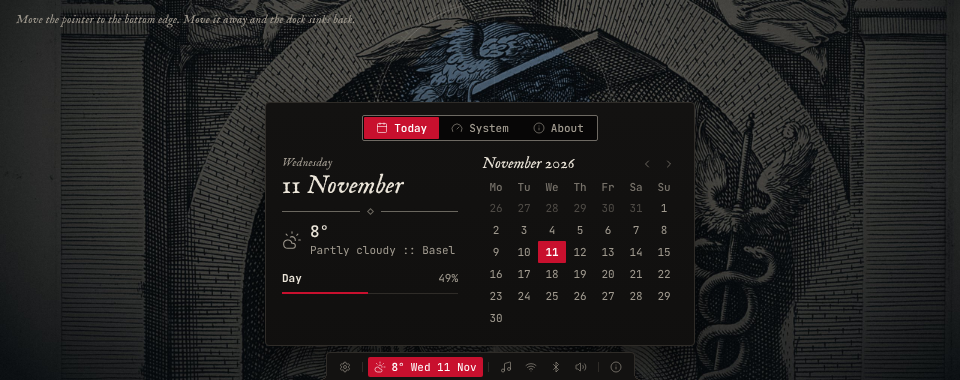
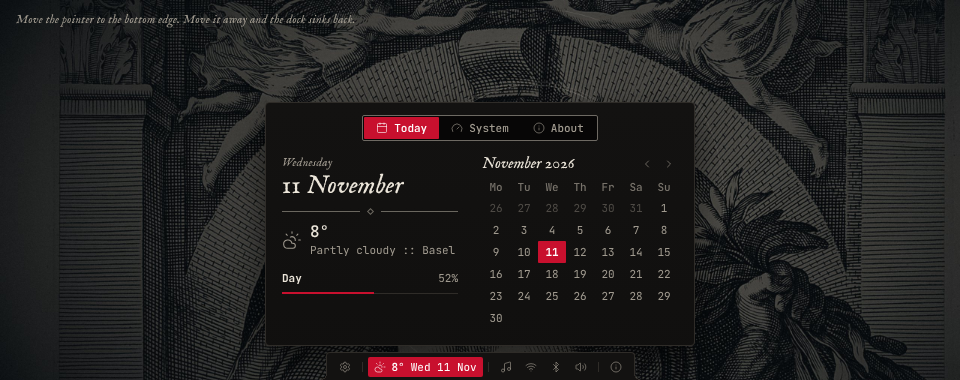
feat(theme)!: replace Minerva and Mercurius with Vulcanus and Neptunus
Apollo shows Goltzius's Sol in his niche (1592) again. Vulcanus takes Minerva's place and her olive aspect; Neptunus takes the blue aspect of Mercurius, for the water. Both are Goltzius after Polidoro, 1592.

BREAKING CHANGE: the theme ids minerva and mercurius are now vulcanus and neptunus

diff --git a/design-system/components/Pantheon/preview.html b/design-system/components/Pantheon/preview.html
@@ -24,7 +24,7 @@
 </div>
 <script>
 Kit.hydrate(document);
-var P = [["saturnus", "../../assets/Wallpapers/saturnus.jpg", "Saturnus", "Goltzius, 1592", "Saturnus with his sickle, lord of time, in his niche. Engraved by Hendrick Goltzius after Polidoro da Caravaggio, 1592", "#c8102e"], ["janus", "../../assets/Wallpapers/janus.jpg", "Janus", "Audenaerd, about 1700", "Janus with both faces opens the door of the year. Engraved by Robert van Audenaerd after Carlo Maratta", "#688f7f"], ["apollo", "../../assets/Wallpapers/apollo.jpg", "Apollo", "Goltzius, 1588", "Apollo with the rays of the sun around his head. Engraved by Hendrick Goltzius, Haarlem, 1588", "#b5925a"], ["mars", "../../assets/Wallpapers/mars.jpg", "Mars", "Quellinus, 1655", "Mars in armour, a dragon on his helmet. Hubert Quellinus after the statue by Artus Quellinus, Amsterdam, 1655", "#9f5836"], ["minerva", "../../assets/Wallpapers/minerva.jpg", "Minerva", "Saenredam, 1595", "Minerva with helmet, spear and owl. Engraved by Jan Saenredam after Hendrick Goltzius, about 1595", "#878a5d"], ["mercurius", "../../assets/Wallpapers/mercurius.jpg", "Mercurius", "Goltzius, 1592", "Mercurius in his niche. Engraved by Hendrick Goltzius after Polidoro da Caravaggio, 1592", "#546d85"], ["pluto", "../../assets/Wallpapers/pluto.jpg", "Pluto", "Goltzius, 1592", "Pluto in his niche. Engraved by Hendrick Goltzius after Polidoro da Caravaggio, 1592", "#746388"], ["bacchus", "../../assets/Wallpapers/bacchus.jpg", "Bacchus", "Goltzius, 1592", "Bacchus in his niche. Engraved by Hendrick Goltzius after Polidoro da Caravaggio, 1592", "#93535e"]];
+var P = [["saturnus", "../../assets/Wallpapers/saturnus.jpg", "Saturnus", "Goltzius, 1592", "Saturnus with his sickle, lord of time, in his niche. Engraved by Hendrick Goltzius after Polidoro da Caravaggio, 1592", "#c8102e"], ["janus", "../../assets/Wallpapers/janus.jpg", "Janus", "Audenaerd, about 1700", "Janus with both faces opens the door of the year. Engraved by Robert van Audenaerd after Carlo Maratta", "#688f7f"], ["apollo", "../../assets/Wallpapers/apollo.jpg", "Apollo", "Goltzius, 1592", "Apollo as Sol, the sun, with lyre and quiver in his niche. Engraved by Hendrick Goltzius after Polidoro da Caravaggio, 1592", "#b5925a"], ["mars", "../../assets/Wallpapers/mars.jpg", "Mars", "Quellinus, 1655", "Mars in armour, a dragon on his helmet. Hubert Quellinus after the statue by Artus Quellinus, Amsterdam, 1655", "#9f5836"], ["vulcanus", "../../assets/Wallpapers/vulcanus.jpg", "Vulcanus", "Goltzius, 1592", "Vulcanus, the smith of the gods, in his niche. Engraved by Hendrick Goltzius after Polidoro da Caravaggio, 1592", "#878a5d"], ["neptunus", "../../assets/Wallpapers/neptunus.jpg", "Neptunus", "Goltzius, 1592", "Neptunus with his crown and trident, in his niche. Engraved by Hendrick Goltzius after Polidoro da Caravaggio, 1592", "#546d85"], ["pluto", "../../assets/Wallpapers/pluto.jpg", "Pluto", "Goltzius, 1592", "Pluto in his niche. Engraved by Hendrick Goltzius after Polidoro da Caravaggio, 1592", "#746388"], ["bacchus", "../../assets/Wallpapers/bacchus.jpg", "Bacchus", "Goltzius, 1592", "Bacchus in his niche. Engraved by Hendrick Goltzius after Polidoro da Caravaggio, 1592", "#93535e"]];
 
 (function () {
   var scr = document.getElementById('scr'), track = document.getElementById('track'), car = document.getElementById('car'), rev = document.getElementById('rev'), base = document.getElementById('base');

diff --git a/design-system/components/Search/preview.html b/design-system/components/Search/preview.html
@@ -6,7 +6,7 @@
 <div data-wall-host data-theme="saturnus" style="position:relative;height:560px;overflow:hidden;background:var(--background)"><div class="k-wall" data-dim style="background-image:url(../../assets/Wallpapers/saturnus.jpg);background-position:center 30%"></div>
   <div class="k-grain"></div>
   <div style="position:absolute;inset:0;display:flex;justify-content:center;align-items:flex-start;padding-top:56px">
-    <div class="k-search k-surface" id="srch" data-query="theme" data-gods='{"saturnus": "../../assets/Wallpapers/saturnus.jpg", "janus": "../../assets/Wallpapers/janus.jpg", "apollo": "../../assets/Wallpapers/apollo.jpg", "mars": "../../assets/Wallpapers/mars.jpg", "minerva": "../../assets/Wallpapers/minerva.jpg", "mercurius": "../../assets/Wallpapers/mercurius.jpg", "pluto": "../../assets/Wallpapers/pluto.jpg", "bacchus": "../../assets/Wallpapers/bacchus.jpg"}' role="dialog" aria-label="Search">
+    <div class="k-search k-surface" id="srch" data-query="theme" data-gods='{"saturnus": "../../assets/Wallpapers/saturnus.jpg", "janus": "../../assets/Wallpapers/janus.jpg", "apollo": "../../assets/Wallpapers/apollo.jpg", "mars": "../../assets/Wallpapers/mars.jpg", "vulcanus": "../../assets/Wallpapers/vulcanus.jpg", "neptunus": "../../assets/Wallpapers/neptunus.jpg", "pluto": "../../assets/Wallpapers/pluto.jpg", "bacchus": "../../assets/Wallpapers/bacchus.jpg"}' role="dialog" aria-label="Search">
       <div class="k-search-head"><i class="k-icon" data-icon="search"></i><span class="k-crumb" id="crumb"></span><input aria-label="Search" autocomplete="off" spellcheck="false"><span class="k-kbd">Esc</span></div>
       <div class="k-search-filter"><div class="k-seg" id="filter" aria-label="Show"><button aria-selected="true">All</button><button>Apps</button><button>Actions</button><button>Settings</button><button>Commands</button></div><span class="k-plate">one field for everything</span></div>
       <ul class="k-hits" id="hits" role="listbox"></ul>
@@ -45,8 +45,8 @@ Kit.hydrate(document);
     {k: 'action', t: 'Janus', p: ['Style', 'Pantheon'], i: 'swatch-book', w: 'god aspect wallpaper patina green door', g: 'style'},
     {k: 'action', t: 'Apollo', p: ['Style', 'Pantheon'], i: 'swatch-book', w: 'god aspect wallpaper antique gold brass sun', g: 'style'},
     {k: 'action', t: 'Mars', p: ['Style', 'Pantheon'], i: 'swatch-book', w: 'god aspect wallpaper rust war', g: 'style'},
-    {k: 'action', t: 'Minerva', p: ['Style', 'Pantheon'], i: 'swatch-book', w: 'god aspect wallpaper olive owl moss', g: 'style'},
-    {k: 'action', t: 'Mercurius', p: ['Style', 'Pantheon'], i: 'swatch-book', w: 'god aspect wallpaper mercury slate blue ink', g: 'style'},
+    {k: 'action', t: 'Vulcanus', p: ['Style', 'Pantheon'], i: 'swatch-book', w: 'god aspect wallpaper olive forge smith fire', g: 'style'},
+    {k: 'action', t: 'Neptunus', p: ['Style', 'Pantheon'], i: 'swatch-book', w: 'god aspect wallpaper sea water blue trident', g: 'style'},
     {k: 'action', t: 'Pluto', p: ['Style', 'Pantheon'], i: 'swatch-book', w: 'god aspect wallpaper heather plum violet underworld', g: 'style'},
     {k: 'action', t: 'Bacchus', p: ['Style', 'Pantheon'], i: 'swatch-book', w: 'god aspect wallpaper claret wine', g: 'style'},
     {k: 'action', t: 'Switch to light', p: ['Style'], i: 'sun', w: 'variant light dark appearance', g: 'style'},

diff --git a/design-system/components/EdgeDock/preview.html b/design-system/components/EdgeDock/preview.html
@@ -3,7 +3,7 @@
 <html lang="en">
 <head><meta charset="utf-8"><title>EdgeDock — preview</title></head>
 <body>
-<div style="position:relative;height:380px;overflow:hidden"><div class="k-wall" style="background-image:url(../../assets/Wallpapers/mercurius.jpg);background-position:center 30%"></div>
+<div style="position:relative;height:380px;overflow:hidden"><div class="k-wall" style="background-image:url(../../assets/Wallpapers/neptunus.jpg);background-position:center 30%"></div>
   <div class="k-plate" style="position:absolute;left:16px;top:12px">Move the pointer to the bottom edge. Move it away and the dock sinks back.</div>
   <div class="k-dockbar">
 <div class="k-dock" id="dock">

diff --git a/design-system/tokens.css b/design-system/tokens.css
@@ -110,7 +110,7 @@
   --term-cursor: #9f5836;
   --term-selection: #372015;
 }
-[data-theme="minerva"] {
+[data-theme="vulcanus"] {
   --background: #0a0b06;
   --surface: #12130d;
   --surface-raised: #191a14;
@@ -127,7 +127,7 @@
   --term-cursor: #878a5d;
   --term-selection: #272819;
 }
-[data-theme="mercurius"] {
+[data-theme="neptunus"] {
   --background: #070b0e;
   --surface: #0f1317;
   --surface-raised: #151a1f;

diff --git a/tools/components.py b/tools/components.py
@@ -3,8 +3,8 @@ import json
 def I(n, cls=''):
     return '<i class="k-icon%s" data-icon="%s"></i>' % ((' ' + cls) if cls else '', n)
 
-BLOBS = {'0d757135df30d2bf6652f3c0a18483d5': 'saturnus.jpg', 'e6dec074eb9b7a654bf95f13d282f2c2': 'janus.jpg', '0cc6a7c9004fdc677a5ee5e9a15fa027': 'apollo.jpg', '3ce42143088aadf856d6c3ff5e29859e': 'mars.jpg', 'b4ec8e071ce499247b7f5574f8ea26c2': 'minerva.jpg', 'f23de46dea7fe1908c7bd773b98dd1ae': 'mercurius.jpg', '29b44e5ca900dac5a146387c59ae71a1': 'pluto.jpg', '0b1aff047346223424503ef8f1b62a91': 'bacchus.jpg'}
-SATURNUS, JANUS, APOLLO, MARS, MINERVA, MERCURIUS, PLUTO, BACCHUS = ['/_blob/' + k for k in BLOBS]
+BLOBS = {'0d757135df30d2bf6652f3c0a18483d5': 'saturnus.jpg', 'e6dec074eb9b7a654bf95f13d282f2c2': 'janus.jpg', 'b41733760ffae9de3f6f5d88682af092': 'apollo.jpg', '3ce42143088aadf856d6c3ff5e29859e': 'mars.jpg', '3b21996e74bfecb14fcb2f68061b8c3d': 'vulcanus.jpg', '479cdcb0b9c5173af68ab78ad369c814': 'neptunus.jpg', '29b44e5ca900dac5a146387c59ae71a1': 'pluto.jpg', '0b1aff047346223424503ef8f1b62a91': 'bacchus.jpg'}
+SATURNUS, JANUS, APOLLO, MARS, VULCANUS, NEPTUNUS, PLUTO, BACCHUS = ['/_blob/' + k for k in BLOBS]
 def WALL(url, extra='', pos='center'):
     return '<div class="k-wall"%s style="background-image:url(%s);background-position:%s"></div>' % (extra, url, pos)
 COMPONENTS = []
@@ -415,8 +415,8 @@ SEARCH_JS = r'''
     {k: 'action', t: 'Janus', p: ['Style', 'Pantheon'], i: 'swatch-book', w: 'god aspect wallpaper patina green door', g: 'style'},
     {k: 'action', t: 'Apollo', p: ['Style', 'Pantheon'], i: 'swatch-book', w: 'god aspect wallpaper antique gold brass sun', g: 'style'},
     {k: 'action', t: 'Mars', p: ['Style', 'Pantheon'], i: 'swatch-book', w: 'god aspect wallpaper rust war', g: 'style'},
-    {k: 'action', t: 'Minerva', p: ['Style', 'Pantheon'], i: 'swatch-book', w: 'god aspect wallpaper olive owl moss', g: 'style'},
-    {k: 'action', t: 'Mercurius', p: ['Style', 'Pantheon'], i: 'swatch-book', w: 'god aspect wallpaper mercury slate blue ink', g: 'style'},
+    {k: 'action', t: 'Vulcanus', p: ['Style', 'Pantheon'], i: 'swatch-book', w: 'god aspect wallpaper olive forge smith fire', g: 'style'},
+    {k: 'action', t: 'Neptunus', p: ['Style', 'Pantheon'], i: 'swatch-book', w: 'god aspect wallpaper sea water blue trident', g: 'style'},
     {k: 'action', t: 'Pluto', p: ['Style', 'Pantheon'], i: 'swatch-book', w: 'god aspect wallpaper heather plum violet underworld', g: 'style'},
     {k: 'action', t: 'Bacchus', p: ['Style', 'Pantheon'], i: 'swatch-book', w: 'god aspect wallpaper claret wine', g: 'style'},
     {k: 'action', t: 'Switch to light', p: ['Style'], i: 'sun', w: 'variant light dark appearance', g: 'style'},
@@ -565,7 +565,7 @@ comp('Search', 'Shell', 560, r'''
 <div data-wall-host data-theme="saturnus" style="position:relative;height:560px;overflow:hidden;background:var(--background)">''' + WALL(SATURNUS, ' data-dim', pos='center 30%') + r'''
   <div class="k-grain"></div>
   <div style="position:absolute;inset:0;display:flex;justify-content:center;align-items:flex-start;padding-top:56px">
-    <div class="k-search k-surface" id="srch" data-query="theme" data-gods=''' + "'" + json.dumps(dict(zip(['saturnus', 'janus', 'apollo', 'mars', 'minerva', 'mercurius', 'pluto', 'bacchus'], [SATURNUS, JANUS, APOLLO, MARS, MINERVA, MERCURIUS, PLUTO, BACCHUS]))) + "'" + r''' role="dialog" aria-label="Search">
+    <div class="k-search k-surface" id="srch" data-query="theme" data-gods=''' + "'" + json.dumps(dict(zip(['saturnus', 'janus', 'apollo', 'mars', 'vulcanus', 'neptunus', 'pluto', 'bacchus'], [SATURNUS, JANUS, APOLLO, MARS, VULCANUS, NEPTUNUS, PLUTO, BACCHUS]))) + "'" + r''' role="dialog" aria-label="Search">
       <div class="k-search-head">''' + I('search') + r'''<span class="k-crumb" id="crumb"></span><input aria-label="Search" autocomplete="off" spellcheck="false"><span class="k-kbd">Esc</span></div>
       <div class="k-search-filter"><div class="k-seg" id="filter" aria-label="Show"><button aria-selected="true">All</button><button>Apps</button><button>Actions</button><button>Settings</button><button>Commands</button></div><span class="k-plate">one field for everything</span></div>
       <ul class="k-hits" id="hits" role="listbox"></ul>
@@ -707,7 +707,7 @@ DOCK_JS = r'''
 })();
 '''
 comp('EdgeDock', 'Shell', 380, r'''
-<div style="position:relative;height:380px;overflow:hidden">''' + WALL(MERCURIUS, pos='center 30%') + r'''
+<div style="position:relative;height:380px;overflow:hidden">''' + WALL(NEPTUNUS, pos='center 30%') + r'''
   <div class="k-plate" style="position:absolute;left:16px;top:12px">Move the pointer to the bottom edge. Move it away and the dock sinks back.</div>
   <div class="k-dockbar">''' + DOCK + r'''</div>
 </div>''', r'''
@@ -993,14 +993,14 @@ import pantheon as _pan
 _CAP = {
     'saturnus': ('Goltzius, 1592', 'Saturnus with his sickle, lord of time, in his niche. Engraved by Hendrick Goltzius after Polidoro da Caravaggio, 1592'),
     'janus': ('Audenaerd, about 1700', 'Janus with both faces opens the door of the year. Engraved by Robert van Audenaerd after Carlo Maratta'),
-    'apollo': ('Goltzius, 1588', 'Apollo with the rays of the sun around his head. Engraved by Hendrick Goltzius, Haarlem, 1588'),
+    'apollo': ('Goltzius, 1592', 'Apollo as Sol, the sun, with lyre and quiver in his niche. Engraved by Hendrick Goltzius after Polidoro da Caravaggio, 1592'),
     'mars': ('Quellinus, 1655', 'Mars in armour, a dragon on his helmet. Hubert Quellinus after the statue by Artus Quellinus, Amsterdam, 1655'),
-    'minerva': ('Saenredam, 1595', 'Minerva with helmet, spear and owl. Engraved by Jan Saenredam after Hendrick Goltzius, about 1595'),
-    'mercurius': ('Goltzius, 1592', 'Mercurius in his niche. Engraved by Hendrick Goltzius after Polidoro da Caravaggio, 1592'),
+    'vulcanus': ('Goltzius, 1592', 'Vulcanus, the smith of the gods, in his niche. Engraved by Hendrick Goltzius after Polidoro da Caravaggio, 1592'),
+    'neptunus': ('Goltzius, 1592', 'Neptunus with his crown and trident, in his niche. Engraved by Hendrick Goltzius after Polidoro da Caravaggio, 1592'),
     'pluto': ('Goltzius, 1592', 'Pluto in his niche. Engraved by Hendrick Goltzius after Polidoro da Caravaggio, 1592'),
     'bacchus': ('Goltzius, 1592', 'Bacchus in his niche. Engraved by Hendrick Goltzius after Polidoro da Caravaggio, 1592'),
 }
-_URL = dict(zip([g[0] for g in _pan.GODS], [SATURNUS, JANUS, APOLLO, MARS, MINERVA, MERCURIUS, PLUTO, BACCHUS]))
+_URL = dict(zip([g[0] for g in _pan.GODS], [SATURNUS, JANUS, APOLLO, MARS, VULCANUS, NEPTUNUS, PLUTO, BACCHUS]))
 PLATES = [(g[0], _URL[g[0]], g[1], _CAP[g[0]][0], _CAP[g[0]][1], _pan.aspect(g[0])['accent']) for g in _pan.GODS]
 WP_JS = 'var P = ' + json.dumps(PLATES) + ';\n' + r"""
 (function () {
@@ -1045,9 +1045,9 @@ screen('Pantheon', 720, r'''
 </div>''', r'''
 The pantheon (Style › Wallpaper, Super Ctrl Space). The default theme has no single wallpaper but eight Roman gods. Each god is a plate and an aspect: the plate is the wallpaper, the aspect recolours the system to match it. Calling a god sets both at once.
 
-- The gods, in order: Saturnus (Strix red, the default), Janus (patina), Apollo (antique gold), Mars (rust), Minerva (olive leaf), Mercurius (slate blue), Pluto (heather), Bacchus (claret). All but Saturnus are muted, as in dark academia: deep, warm, never bright. Janus keeps the doors and so the lock screen; in Ovid it is his gift that keeps the striges out of the house.
+- The gods, in order: Saturnus (Strix red, the default), Janus (patina), Apollo (antique gold), Mars (rust), Vulcanus (olive), Neptunus (slate blue), Pluto (heather), Bacchus (claret). All but Saturnus are muted, as in dark academia: deep, warm, never bright. Janus keeps the doors and so the lock screen; in Ovid it is his gift that keeps the striges out of the house.
 - An aspect changes only the accent and its family (`accent`, `accent-hover`, `accent-pressed`, `accent-soft`, `accent-text`, `on-accent`, `focus`, terminal cursor and selection) and tints the grounds (`background`, the surfaces, `border`) a little toward the god's hue. Text, `line`, the status colours and syntax stay the same in every aspect, so readability never depends on the god.
-- In code the aspect is a theme: `data-theme="mars"` on the root, or on any element to scope it. Light accents (Janus, Apollo and Minerva) put dark text on their fills, the others white; `on-accent` says which.
+- In code the aspect is a theme: `data-theme="mars"` on the root, or on any element to scope it. Light accents (Janus, Apollo and Vulcanus) put dark text on their fills, the others white; `on-accent` says which.
 - Every plate is an engraving printed in two inks of its aspect: dark ink on dim cream, and inside the disc the paper takes the god's colour.
 - Browse with the arrow keys, the wheel or a click on a neighbour; the small dot under the name is the god's colour. Enter or a click on the middle card spreads the plate as a growing circle from the click point over `dur-reveal`; then the aspect switches and the picker fades.
 - Other themes bring their own wallpapers and keep one accent.

diff --git a/tools/docs.py b/tools/docs.py
@@ -68,7 +68,7 @@ __GODS_TABLE__
 ## Ornament
 
 - `.k-rule` is a hair line with a small open lozenge in the middle, as between the parts of an old title page. Use it once in a view to part the mood from the matter: under the wordmark, between the date and the weather, above the update card.
-- `.k-plate` is a plate caption: one line of serif italic naming a picture, in the form "Mercurius in his niche. Engraved by Hendrick Goltzius after Polidoro da Caravaggio, 1592". Every engraving shown full screen carries one.
+- `.k-plate` is a plate caption: one line of serif italic naming a picture, in the form "Pluto in his niche. Engraved by Hendrick Goltzius after Polidoro da Caravaggio, 1592". Every engraving shown full screen carries one.
 - InfoBlock's double-line brackets are the only frame. Use them for system facts, once per view.
 - `.k-grain` lays a fine grain over a full-screen picture. Use it on wallpapers only, never on surfaces.
 - That is the whole stock of ornament. No flourishes, corner pieces, drop caps or borders made of pattern.
@@ -85,7 +85,7 @@ __GODS_TABLE__
 ## Wallpaper and imagery
 
 - Wallpapers are engravings of Roman gods, printed in two inks of the god's aspect: dim cream for the paper and the aspect's `background` for the ink. Inside one flat disc behind the head the paper takes the god's `accent`, dulled a little as ink on old paper, so the head is drawn in dark lines on the colour. Around the disc sit a few hair lines: two circles, a graduated ring and a meridian. The picture is darkened hard toward the edges so it reads as texture, not as a poster.
-- Eight plates are in the Wallpapers asset group, one per god: Saturnus (the default desktop), Janus (the lock screen: he keeps the doors), Apollo, Mars, Minerva, Mercurius, Pluto and Bacchus. They come from the open-access collections of the Art Institute of Chicago (CC0) and the Rijksmuseum (public domain). The group's README gives title, engraver, date, source and licence for each.
+- Eight plates are in the Wallpapers asset group, one per god: Saturnus (the default desktop), Janus (the lock screen: he keeps the doors), Apollo, Mars, Vulcanus, Neptunus, Pluto and Bacchus. They come from the open-access collections of the Art Institute of Chicago (CC0) and the Rijksmuseum (public domain). The group's README gives title, engraver, date, source and licence for each.
 - Crop to the upper body: head, shoulders, arms. Keep the top 110px and the bottom 90px of a wallpaper dark so the bar and the dock stay readable.
 - Under the lock screen, the theme picker and the pantheon the wallpaper is dimmed to `dim-wallpaper` and softened slightly.
 - Add further gods only as engravings or etchings in the public domain from a collection that says so, with an aspect of their own whose accent is far enough in hue from the others, treated the same way, with source and licence written into the README. No photographs, no paintings in colour, no characters, no artwork of other projects.

diff --git a/tools/wallpapers.py b/tools/wallpapers.py
@@ -32,14 +32,14 @@ PLATES = {
                  'Hendrick Goltzius after Polidoro da Caravaggio, Saturnus, from Eight Pagan Gods, 1592. Art Institute of Chicago 2023.968, CC0'),
     'janus': (('rijks', 'jGPOs', 6098), (0.36, 0.23, 0.74), (1110, 450, 300),
               'Janus opens the door of the year, engraved by Robert van Audenaerd after Carlo Maratta, 1685 to 1723. Rijksmuseum RP-P-OB-67.432, public domain'),
-    'apollo': (('aic', '3e8aab9a-660c-7742-733d-5a36fc648418'), (0.10, 0.08, 0.90), (1360, 346, 280),
-               'Hendrick Goltzius, Apollo, 1588. Art Institute of Chicago 2012.409, CC0'),
+    'apollo': (('aic', 'f9b4ca78-b118-0595-7e4d-ea082b618d9d'), (0.10, 0.12, 0.90), (1297, 585, 250),
+               'Hendrick Goltzius after Polidoro da Caravaggio, Sol, from Eight Pagan Gods, 1592. Art Institute of Chicago 2023.972, CC0'),
     'mars': (('rijks', 'yzhwS', 3064), (0.22, 0.17, 0.84), (1060, 560, 260),
              'Hubert Quellinus after Artus Quellinus, Mars in the west gallery of the Amsterdam town hall, 1655. Rijksmuseum RP-P-AO-22-1Q-1, public domain'),
-    'minerva': (('aic', '27c735cb-2d28-bf3f-d67b-3bea6278957c'), (0.0, 0.10, 1.0), (1580, 700, 300),
-                'Jan Saenredam after Hendrick Goltzius, Pallas Athena, from Three Goddesses, about 1595. Art Institute of Chicago 2023.161, CC0'),
-    'mercurius': (('aic', '907c2a05-541d-ddee-7d23-75ee68dfe50e'), (0.15, 0.15, 0.85), (1318, 447, 260),
-                  'Hendrick Goltzius after Polidoro da Caravaggio, Mercurius, from Eight Pagan Gods, 1592. Art Institute of Chicago 2023.975, CC0'),
+    'vulcanus': (('aic', '2e3e8684-cef2-9f95-cbd1-707884e5261d'), (0.15, 0.15, 0.85), (1320, 560, 250),
+                 'Hendrick Goltzius after Polidoro da Caravaggio, Vulcanus, from Eight Pagan Gods, 1592. Art Institute of Chicago 2023.971, CC0'),
+    'neptunus': (('aic', '03acd0e7-0cf5-7fc7-60c7-6fb1097a143f'), (0.15, 0.15, 0.85), (1420, 660, 250),
+                 'Hendrick Goltzius after Polidoro da Caravaggio, Neptunus, from Eight Pagan Gods, 1592. Art Institute of Chicago 2023.969, CC0'),
     'pluto': (('aic', '875c8e28-faf6-4991-b34a-e9e991476d81'), (0.15, 0.15, 0.85), (1335, 475, 260),
               'Hendrick Goltzius after Polidoro da Caravaggio, Pluto, from Eight Pagan Gods, 1592. Art Institute of Chicago 2023.970, CC0'),
     'bacchus': (('aic', 'b87ec199-aa10-e7a7-2301-74c18b845d5d'), (0.15, 0.15, 0.85), (1330, 490, 260),

diff --git a/tools/pantheon.py b/tools/pantheon.py
@@ -23,8 +23,8 @@ GODS_SPEC = [
     ('janus',     'Janus',     (0.59, 0.048, 168),      'Patina, the green of old bronze doors and keys.'),
     ('apollo',    'Apollo',    (0.68, 0.085, 78),       'Antique gold, worn brass.'),
     ('mars',      'Mars',      (0.57, 0.105, 45),       'Rust, iron and burnt sienna.'),
-    ('minerva',   'Minerva',   (0.60, 0.065, 112),      'Olive leaf, moss on stone.'),
-    ('mercurius', 'Mercurius', (0.57, 0.048, 248),      'Slate and ink blue.'),
+    ('vulcanus',  'Vulcanus',  (0.60, 0.065, 112),      'Olive, the patina on old bronze from the forge.'),
+    ('neptunus',  'Neptunus',  (0.57, 0.048, 248),      'Deep water, slate and ink blue.'),
     ('pluto',     'Pluto',     (0.55, 0.060, 305),      'Heather, faded plum.'),
     ('bacchus',   'Bacchus',   (0.52, 0.085, 10),      'Claret, old wine.'),
 ]

diff --git a/design-system/README.md b/design-system/README.md
@@ -51,15 +51,15 @@ The default theme has eight aspects, one for each god of its wallpapers. Choosin
 | Janus | `#688f7f` | `#070c09` | Patina, the green of old bronze doors and keys. |
 | Apollo | `#b5925a` | `#0d0a06` | Antique gold, worn brass. |
 | Mars | `#9f5836` | `#0e0907` | Rust, iron and burnt sienna. |
-| Minerva | `#878a5d` | `#0a0b06` | Olive leaf, moss on stone. |
-| Mercurius | `#546d85` | `#070b0e` | Slate and ink blue. |
+| Vulcanus | `#878a5d` | `#0a0b06` | Olive, the patina on old bronze from the forge. |
+| Neptunus | `#546d85` | `#070b0e` | Deep water, slate and ink blue. |
 | Pluto | `#746388` | `#0b090e` | Heather, faded plum. |
 | Bacchus | `#93535e` | `#0e0909` | Claret, old wine. |
 
 - An aspect sets only `background`, `surface`, `surface-raised`, `surface-sunken`, `border`, the accent family (`accent`, `accent-hover`, `accent-pressed`, `accent-soft`, `accent-text`, `on-accent`, `focus`) and `term-background`, `term-cursor`, `term-selection`. Grounds keep the default's lightness and take only a faint tint of the god's hue. Everything else is shared, so text, status and syntax read the same under every god.
 - The colours follow dark academia: deep, muted and warm, like leather, brass, ink and old bindings. Every accent but the default's has an OKLCH chroma between 0.05 and 0.11, so none is pure or bright; only the Strix red stays at full strength, as the colour of the brand.
 - The accent of each god is chosen by hand; the rest is derived in OKLCH by `tools/pantheon.py`, which also checks every pair: text 4.5:1 on all grounds, `accent-text` 4.5:1 on grounds and `accent-soft`, `on-accent` 4.5:1 on all three fills, `focus` and the accent fill 3:1.
-- Light accents (Janus, Apollo and Minerva) carry near-black text; dark ones (Saturnus, Mars, Mercurius, Pluto and Bacchus) carry white. Use `on-accent`, never a fixed white.
+- Light accents (Janus, Apollo and Vulcanus) carry near-black text; dark ones (Saturnus, Mars, Neptunus, Pluto and Bacchus) carry white. Use `on-accent`, never a fixed white.
 - `error` stays red under every god. Under Saturnus the error and the accent are both red; that is why status is always a word first.
 
 ## Type
@@ -77,7 +77,7 @@ The default theme has eight aspects, one for each god of its wallpapers. Choosin
 ## Ornament
 
 - `.k-rule` is a hair line with a small open lozenge in the middle, as between the parts of an old title page. Use it once in a view to part the mood from the matter: under the wordmark, between the date and the weather, above the update card.
-- `.k-plate` is a plate caption: one line of serif italic naming a picture, in the form "Mercurius in his niche. Engraved by Hendrick Goltzius after Polidoro da Caravaggio, 1592". Every engraving shown full screen carries one.
+- `.k-plate` is a plate caption: one line of serif italic naming a picture, in the form "Pluto in his niche. Engraved by Hendrick Goltzius after Polidoro da Caravaggio, 1592". Every engraving shown full screen carries one.
 - InfoBlock's double-line brackets are the only frame. Use them for system facts, once per view.
 - `.k-grain` lays a fine grain over a full-screen picture. Use it on wallpapers only, never on surfaces.
 - That is the whole stock of ornament. No flourishes, corner pieces, drop caps or borders made of pattern.
@@ -94,7 +94,7 @@ The default theme has eight aspects, one for each god of its wallpapers. Choosin
 ## Wallpaper and imagery
 
 - Wallpapers are engravings of Roman gods, printed in two inks of the god's aspect: dim cream for the paper and the aspect's `background` for the ink. Inside one flat disc behind the head the paper takes the god's `accent`, dulled a little as ink on old paper, so the head is drawn in dark lines on the colour. Around the disc sit a few hair lines: two circles, a graduated ring and a meridian. The picture is darkened hard toward the edges so it reads as texture, not as a poster.
-- Eight plates are in the Wallpapers asset group, one per god: Saturnus (the default desktop), Janus (the lock screen: he keeps the doors), Apollo, Mars, Minerva, Mercurius, Pluto and Bacchus. They come from the open-access collections of the Art Institute of Chicago (CC0) and the Rijksmuseum (public domain). The group's README gives title, engraver, date, source and licence for each.
+- Eight plates are in the Wallpapers asset group, one per god: Saturnus (the default desktop), Janus (the lock screen: he keeps the doors), Apollo, Mars, Vulcanus, Neptunus, Pluto and Bacchus. They come from the open-access collections of the Art Institute of Chicago (CC0) and the Rijksmuseum (public domain). The group's README gives title, engraver, date, source and licence for each.
 - Crop to the upper body: head, shoulders, arms. Keep the top 110px and the bottom 90px of a wallpaper dark so the bar and the dock stay readable.
 - Under the lock screen, the theme picker and the pantheon the wallpaper is dimmed to `dim-wallpaper` and softened slightly.
 - Add further gods only as engravings or etchings in the public domain from a collection that says so, with an aspect of their own whose accent is far enough in hue from the others, treated the same way, with source and licence written into the README. No photographs, no paintings in colour, no characters, no artwork of other projects.

diff --git a/design-system/assets/Wallpapers/README.md b/design-system/assets/Wallpapers/README.md
@@ -4,10 +4,10 @@ The pantheon of the default theme: eight Roman gods, each an engraving printed i
 
 - `saturnus.jpg` — Saturnus: accent `#c8102e` on `#0b0a09`. The default desktop. Hendrick Goltzius after Polidoro da Caravaggio, Saturnus, from Eight Pagan Gods, 1592. Art Institute of Chicago 2023.968, CC0.
 - `janus.jpg` — Janus: accent `#688f7f` on `#070c09`. The lock screen. Janus opens the door of the year, engraved by Robert van Audenaerd after Carlo Maratta, 1685 to 1723. Rijksmuseum RP-P-OB-67.432, public domain.
-- `apollo.jpg` — Apollo: accent `#b5925a` on `#0d0a06`. Hendrick Goltzius, Apollo, 1588. Art Institute of Chicago 2012.409, CC0.
+- `apollo.jpg` — Apollo: accent `#b5925a` on `#0d0a06`. Hendrick Goltzius after Polidoro da Caravaggio, Sol, from Eight Pagan Gods, 1592. Art Institute of Chicago 2023.972, CC0.
 - `mars.jpg` — Mars: accent `#9f5836` on `#0e0907`. Hubert Quellinus after Artus Quellinus, Mars in the west gallery of the Amsterdam town hall, 1655. Rijksmuseum RP-P-AO-22-1Q-1, public domain.
-- `minerva.jpg` — Minerva: accent `#878a5d` on `#0a0b06`. Jan Saenredam after Hendrick Goltzius, Pallas Athena, from Three Goddesses, about 1595. Art Institute of Chicago 2023.161, CC0.
-- `mercurius.jpg` — Mercurius: accent `#546d85` on `#070b0e`. Hendrick Goltzius after Polidoro da Caravaggio, Mercurius, from Eight Pagan Gods, 1592. Art Institute of Chicago 2023.975, CC0.
+- `vulcanus.jpg` — Vulcanus: accent `#878a5d` on `#0a0b06`. Hendrick Goltzius after Polidoro da Caravaggio, Vulcanus, from Eight Pagan Gods, 1592. Art Institute of Chicago 2023.971, CC0.
+- `neptunus.jpg` — Neptunus: accent `#546d85` on `#070b0e`. Hendrick Goltzius after Polidoro da Caravaggio, Neptunus, from Eight Pagan Gods, 1592. Art Institute of Chicago 2023.969, CC0.
 - `pluto.jpg` — Pluto: accent `#746388` on `#0b090e`. Hendrick Goltzius after Polidoro da Caravaggio, Pluto, from Eight Pagan Gods, 1592. Art Institute of Chicago 2023.970, CC0.
 - `bacchus.jpg` — Bacchus: accent `#93535e` on `#0e0909`. Hendrick Goltzius after Polidoro da Caravaggio, Bacchus, from Eight Pagan Gods, 1592. Art Institute of Chicago 2023.974, CC0.
 - `star-chart.svg` — the plain fallback without a picture: cream lines and the disc. Own drawing. Colours are fixed in the file; `Kit.wallpaper()` gives the version that follows the tokens.

diff --git a/design-system/components/Pantheon/README.md b/design-system/components/Pantheon/README.md
@@ -2,9 +2,9 @@
 
 The pantheon (Style › Wallpaper, Super Ctrl Space). The default theme has no single wallpaper but eight Roman gods. Each god is a plate and an aspect: the plate is the wallpaper, the aspect recolours the system to match it. Calling a god sets both at once.
 
-- The gods, in order: Saturnus (Strix red, the default), Janus (patina), Apollo (antique gold), Mars (rust), Minerva (olive leaf), Mercurius (slate blue), Pluto (heather), Bacchus (claret). All but Saturnus are muted, as in dark academia: deep, warm, never bright. Janus keeps the doors and so the lock screen; in Ovid it is his gift that keeps the striges out of the house.
+- The gods, in order: Saturnus (Strix red, the default), Janus (patina), Apollo (antique gold), Mars (rust), Vulcanus (olive), Neptunus (slate blue), Pluto (heather), Bacchus (claret). All but Saturnus are muted, as in dark academia: deep, warm, never bright. Janus keeps the doors and so the lock screen; in Ovid it is his gift that keeps the striges out of the house.
 - An aspect changes only the accent and its family (`accent`, `accent-hover`, `accent-pressed`, `accent-soft`, `accent-text`, `on-accent`, `focus`, terminal cursor and selection) and tints the grounds (`background`, the surfaces, `border`) a little toward the god's hue. Text, `line`, the status colours and syntax stay the same in every aspect, so readability never depends on the god.
-- In code the aspect is a theme: `data-theme="mars"` on the root, or on any element to scope it. Light accents (Janus, Apollo and Minerva) put dark text on their fills, the others white; `on-accent` says which.
+- In code the aspect is a theme: `data-theme="mars"` on the root, or on any element to scope it. Light accents (Janus, Apollo and Vulcanus) put dark text on their fills, the others white; `on-accent` says which.
 - Every plate is an engraving printed in two inks of its aspect: dark ink on dim cream, and inside the disc the paper takes the god's colour.
 - Browse with the arrow keys, the wheel or a click on a neighbour; the small dot under the name is the god's colour. Enter or a click on the middle card spreads the plate as a growing circle from the click point over `dur-reveal`; then the aspect switches and the picker fades.
 - Other themes bring their own wallpapers and keep one accent.

diff --git a/README.md b/README.md
@@ -4,7 +4,7 @@ The design system of Strix: tokens, components, screens and motion for every sur
 
 ![The pantheon: eight gods, eight aspects](docs/renders/Pantheon-plates.jpg)
 
-The default theme has eight gods: Saturnus (Strix red, the default), Janus, Apollo, Mars, Minerva, Mercurius, Pluto and Bacchus. Each is a wallpaper and an aspect, a set of colour tokens that recolours the accent and tints the grounds to match the plate. Choosing a god sets both.
+The default theme has eight gods: Saturnus (Strix red, the default), Janus, Apollo, Mars, Vulcanus, Neptunus, Pluto and Bacchus. Each is a wallpaper and an aspect, a set of colour tokens that recolours the accent and tints the grounds to match the plate. Choosing a god sets both.
 
 ![Lock screen](docs/renders/LockScreen.png)
 
